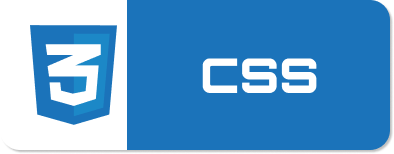
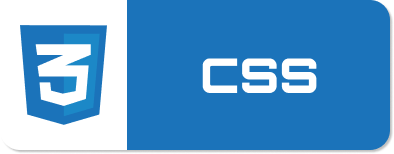
🔁 Changed some images

Changed region(s): [[0.0305, 0.1558, 0.3046, 0.8312]]

diff --git a/README.md b/README.md
@@ -35,9 +35,9 @@
 <img src="https://raw.githubusercontent.com/artYYDP/artYYDP/refs/heads/main/images/shields/power-bi.png" alt="PowerBI logo" title="PowerBI" height="35" />
 <img src="https://raw.githubusercontent.com/artYYDP/artYYDP/refs/heads/main/images/shields/qlik.png" alt="QlikSense logo" title="QlikSense" height="35" />
 <img src="https://raw.githubusercontent.com/artYYDP/artYYDP/refs/heads/main/images/shields/python.png" alt="Python logo" title="Python" height="35" /><br>
-<img src="https://raw.githubusercontent.com/artYYDP/artYYDP/refs/heads/main/images/shields/html.png" alt="HTML5 logo" title="HTML5" height="30" />
-<img src="https://raw.githubusercontent.com/artYYDP/artYYDP/refs/heads/main/images/shields/css.png" alt="CSS3 logo" title="CSS3" height="30" />
-<img src="https://raw.githubusercontent.com/artYYDP/artYYDP/refs/heads/main/images/shields/js.png" alt="JavaScript logo" title="JavaScript" height="30" />
+<img src="https://raw.githubusercontent.com/artYYDP/artYYDP/refs/heads/main/images/shields/html.png" alt="HTML5 logo" title="HTML5" height="35" />
+<img src="https://raw.githubusercontent.com/artYYDP/artYYDP/refs/heads/main/images/shields/css.png" alt="CSS3 logo" title="CSS3" height="35" />
+<img src="https://raw.githubusercontent.com/artYYDP/artYYDP/refs/heads/main/images/shields/js.png" alt="JavaScript logo" title="JavaScript" height="35" />
 </p>
 
 ![GitHub Stats](https://github-readme-stats.vercel.app/api?username=artYYDP&theme=transparent&show_icons=true&hide=contribs,prs)
